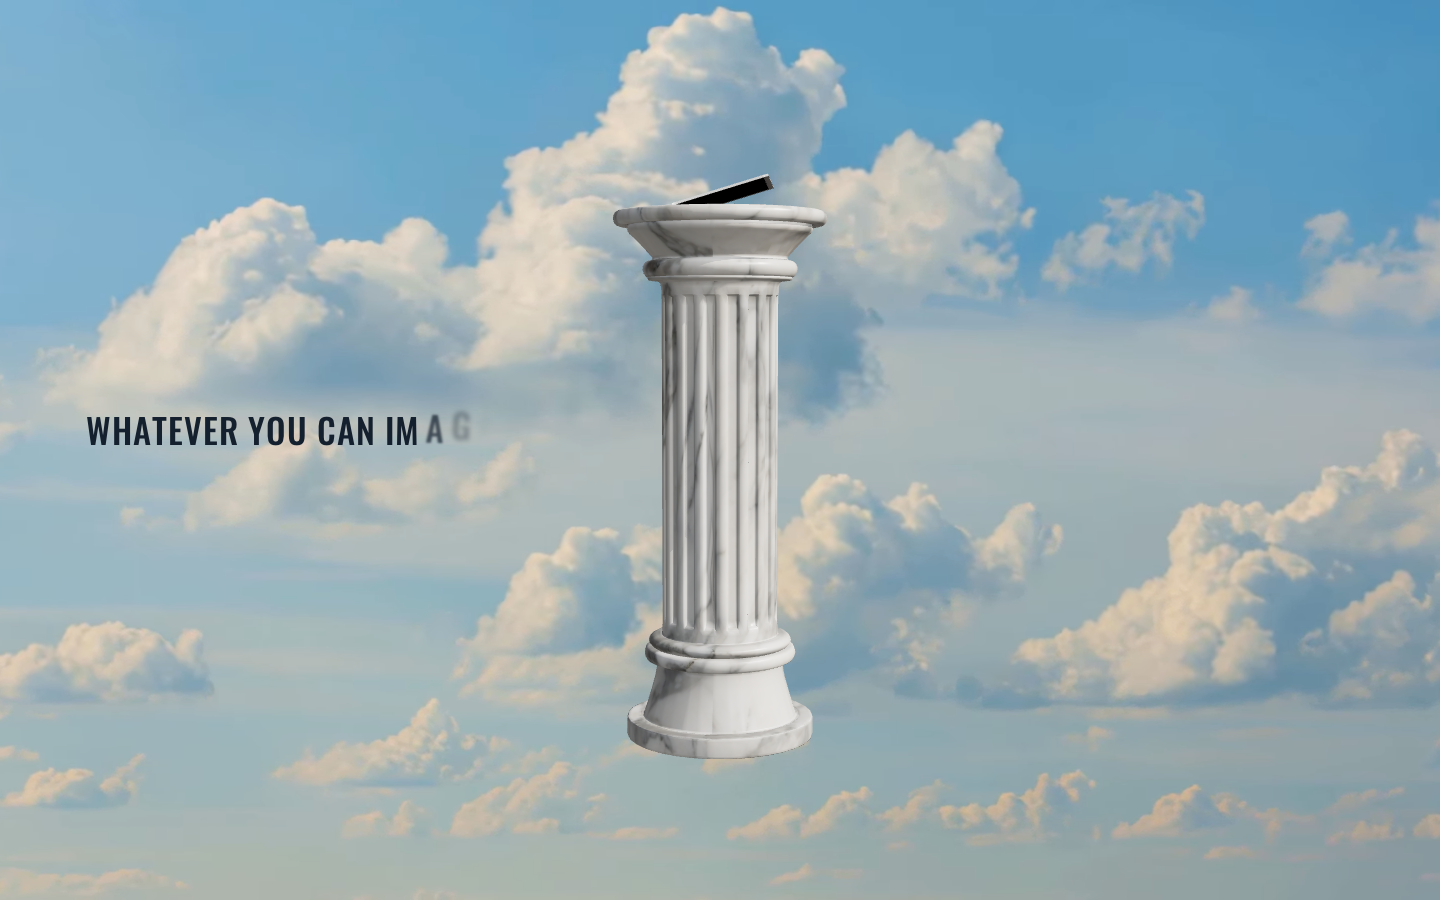
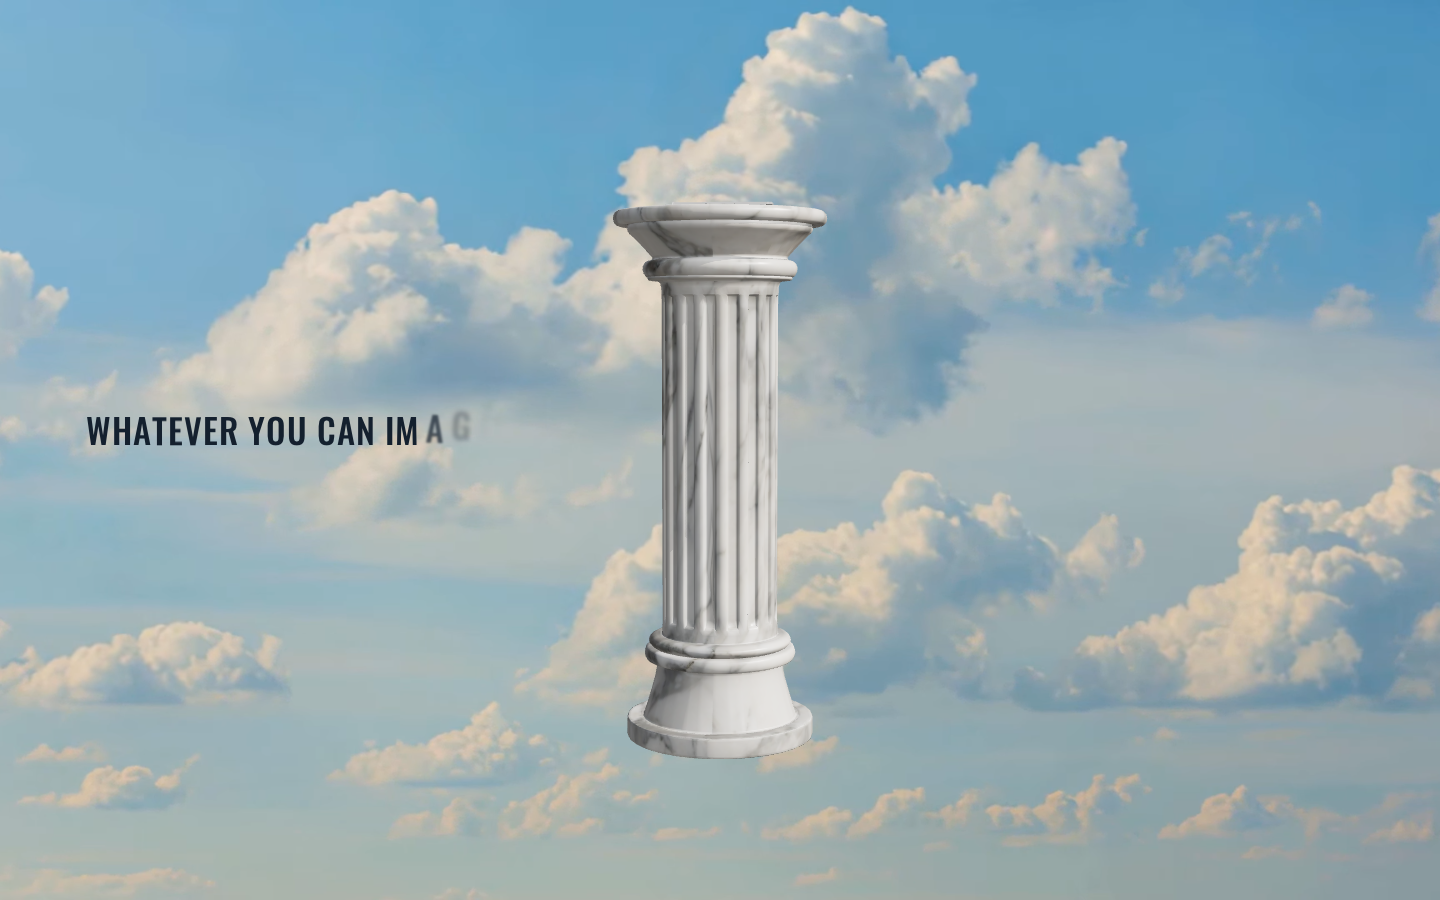
Laptop surfaces fully as the column completes, then opens
Claude-Session: https://claude.ai/code/session_01NAdPXLUXCGhh82qBsMYyAh

diff --git a/src/hero/Rebuild.tsx b/src/hero/Rebuild.tsx
@@ -142,7 +142,7 @@ export function Rebuild({ video, screenTexture }: { video: HTMLVideoElement | nu
     const floor = (rigState.y - 0.4) / height;
     rebuildDissolve.uCut.value = unb > 0 ? Math.max(floor, cutForUnbuild) : settle <= 0 ? -1 : settle >= 0.999 ? 1e3 : settle * 1.15;
     // the laptop surfaces bottom up once the column is solid, over a short run, and leaves with the column
-    const reveal = ease.smooth(remap(p, SETTLE.end, SETTLE.end + 0.025));
+    const reveal = ease.smooth(remap(p, SETTLE.end - 0.005, SETTLE.end + 0.015));
     laptopDissolve.uCut.value = unb > 0 ? rebuildDissolve.uCut.value : reveal <= 0 ? -1 : reveal >= 0.999 ? 1e3 : (COLUMN_TOP + rigState.y + reveal * 0.3) / height;
     g.visible = unb < 0.999;
     const wantShadows = settle > 0 && unb < 0.5;
@@ -156,7 +156,7 @@ export function Rebuild({ video, screenTexture }: { video: HTMLVideoElement | nu
     g.rotation.y = turn * Math.PI * 2;
 
     // the lid lifts from 0.80 to 0.89 to its open angle, then squares to vertical as the rig comes down
-    const open = ease.inOut(remap(p, 0.79, 0.865));
+    const open = ease.inOut(remap(p, 0.815, 0.87));  // the laptop is fully there before it opens
     const down = ease.inOut(remap(p, BEATS.screen[0], BEATS.screen[1]));
     const lidDeg = THREE.MathUtils.lerp(LID_OPEN_DEG * open, 90, down);
     if (lid.current) lid.current.rotation.x = THREE.MathUtils.degToRad(lidDeg);
@@ -173,7 +173,7 @@ export function Rebuild({ video, screenTexture }: { video: HTMLVideoElement | nu
     }
     rigState.y = g.position.y;
     (window as unknown as { __bdRig?: unknown }).__bdRig = { gy: +g.position.y.toFixed(3), rot: +g.rotation.y.toFixed(3), lid: +lidDeg.toFixed(1), down: +down.toFixed(3), sc: screenState.centre.toArray().map((v) => +v.toFixed(3)) };
-    const light = ease.smooth(remap(p, 0.83, 0.86));
+    const light = ease.smooth(remap(p, 0.845, 0.865));
     screenState.light = light;
     if (screenMat.current) screenMat.current.color.setScalar(light);
     if (video && p > 0.62 && video.paused) video.play().catch(() => {});
